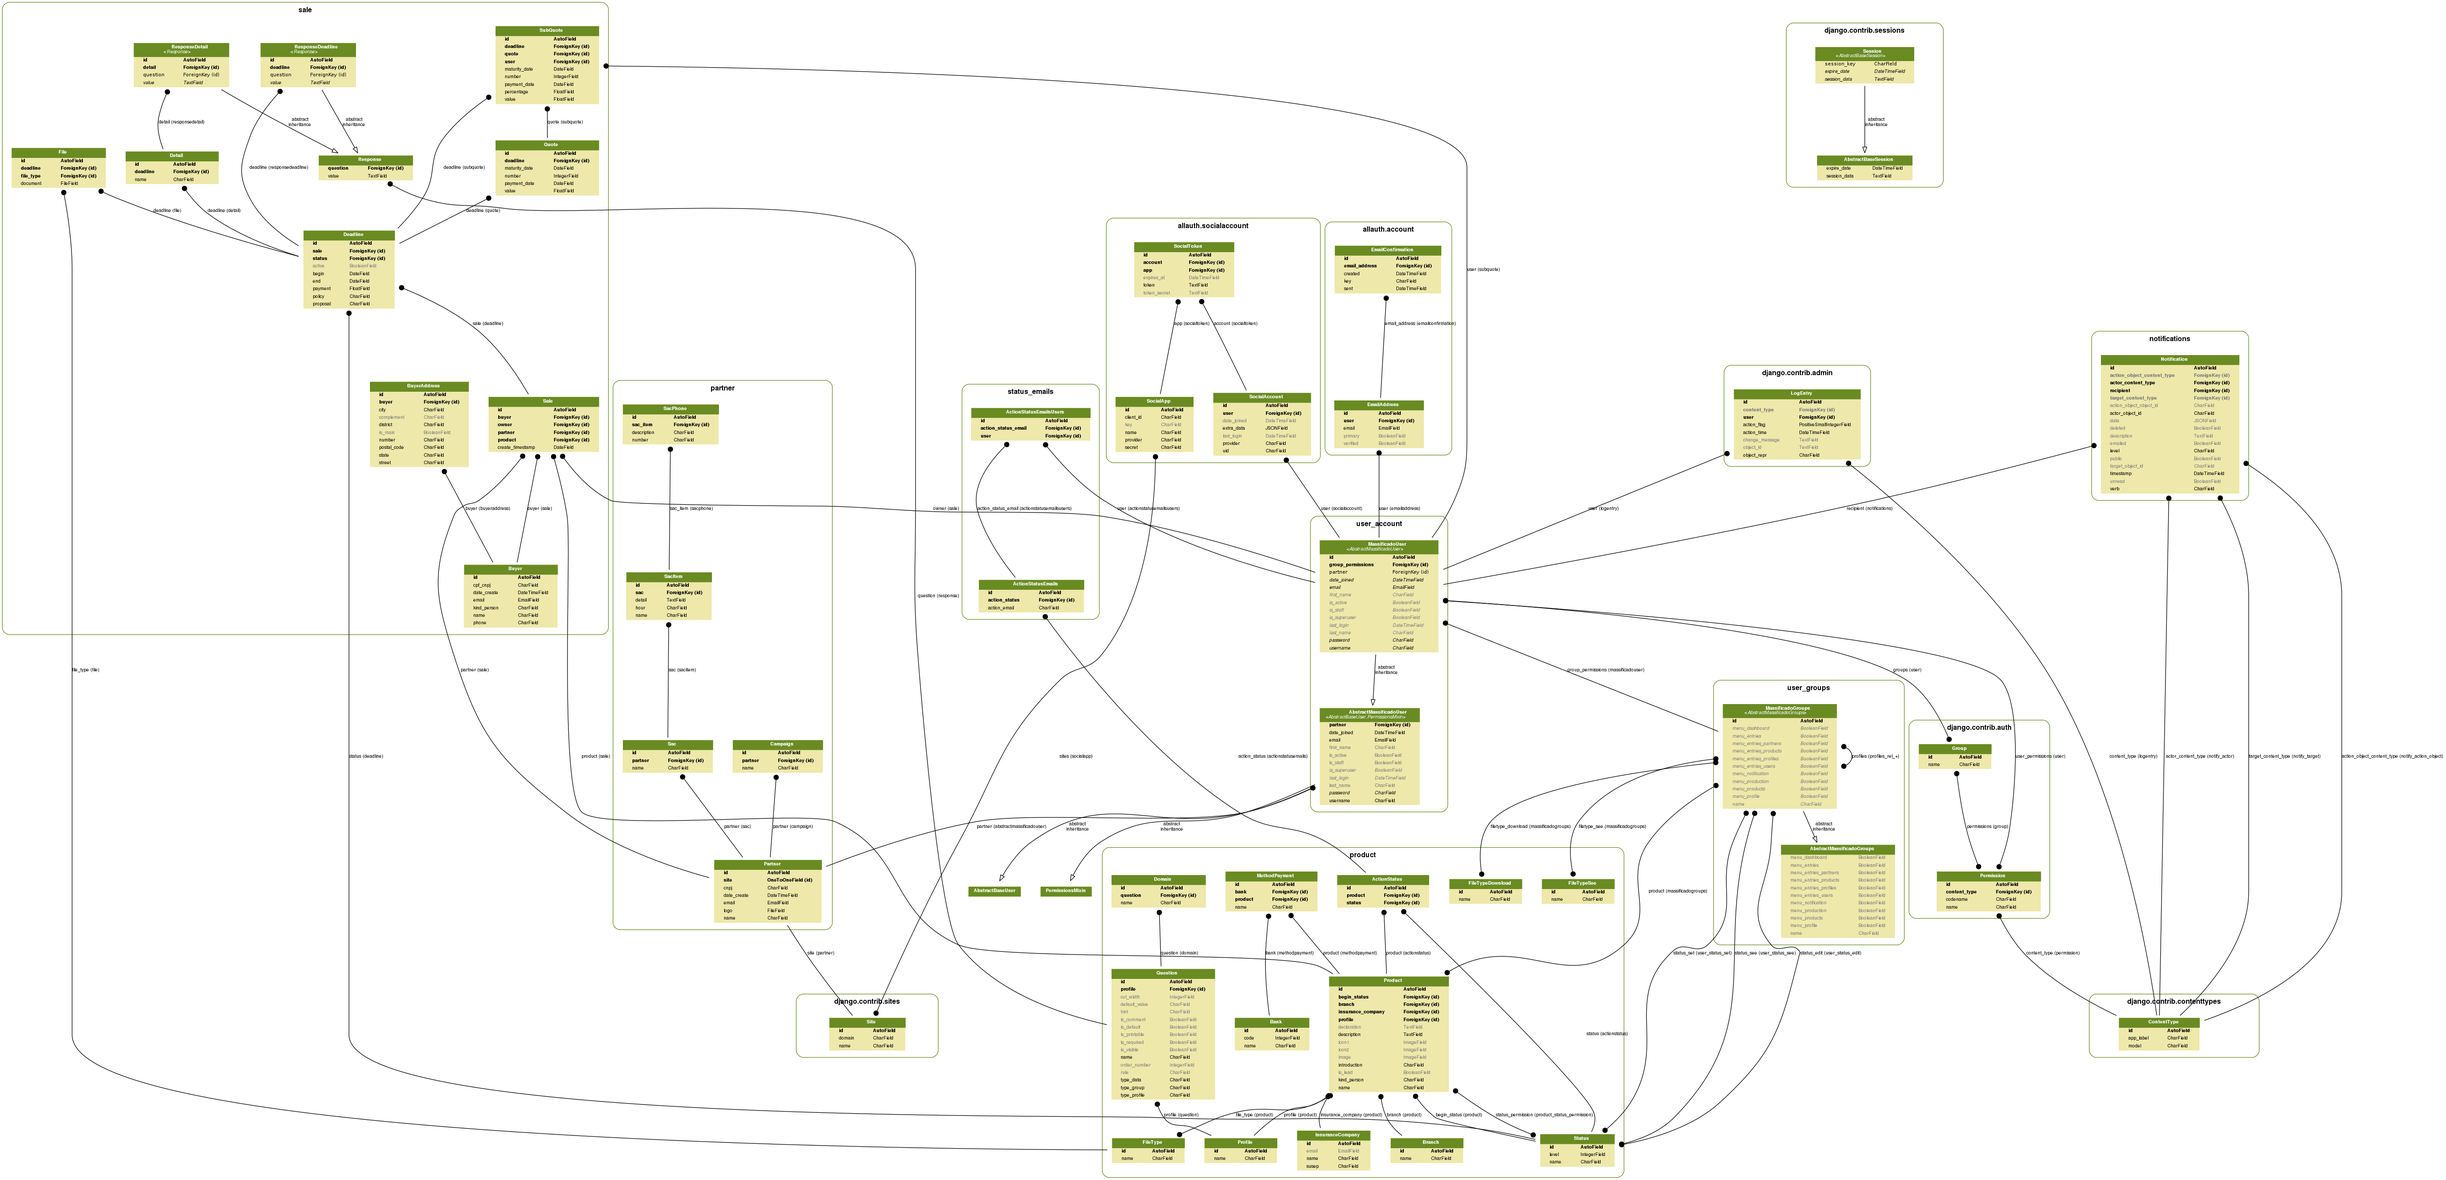
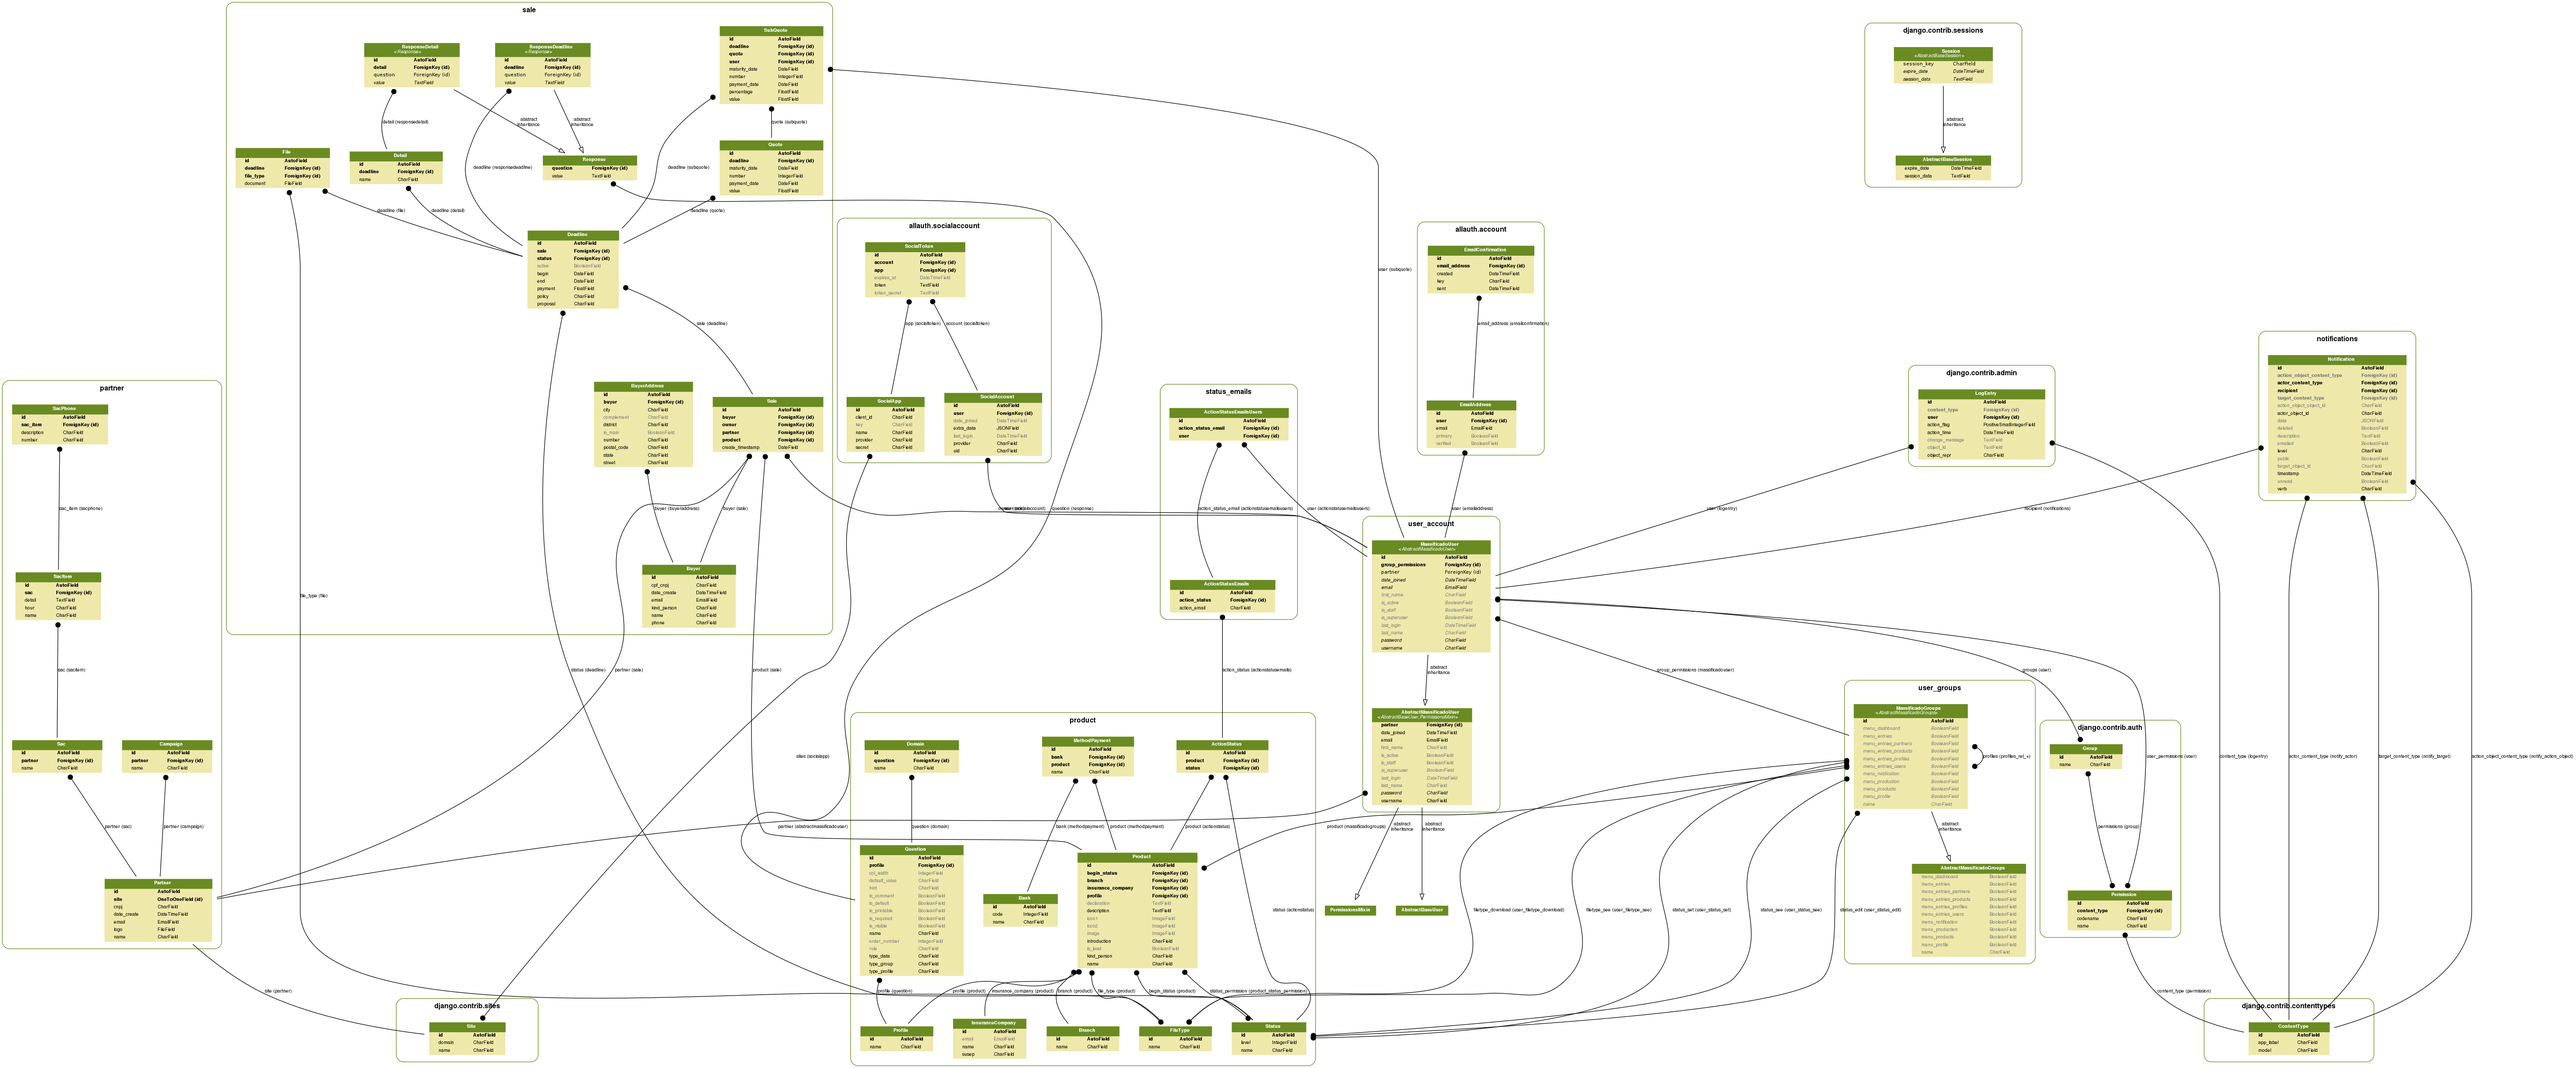
Fix create timestamp on Sale Fix deprecated template debug option on settings.py

diff --git a/massificados/settings.py b/massificados/settings.py
@@ -28,7 +28,6 @@ SECRET_KEY = 'rjy@i6@99qth)#8o!)z!hjk^mi@l7d6$#gfa_pu!91@i&2jtbf'
 
 # SECURITY WARNING: don't run with debug turned on in production!
 DEBUG = True
-TEMPLATE_DEBUG = DEBUG
 
 ALLOWED_HOSTS = [
     '*',
@@ -98,10 +97,9 @@ TEMPLATES = [
                 'django.contrib.auth.context_processors.auth',
                 'django.template.context_processors.i18n',
                 'django.contrib.messages.context_processors.messages',
-                # 'django.template.context_processors.request',
-
 
             ],
+            'debug': DEBUG,
         },
     },
 ]

diff --git a/sale/models.py b/sale/models.py
@@ -41,7 +41,7 @@ class BuyerAddress(models.Model):
 
 
 class Sale(models.Model):
-    create_timestamp = models.DateField(_('Date Created'), default=timezone.now())
+    create_timestamp = models.DateField(_('Date Created'), default=timezone.now)
     product = models.ForeignKey(Product)
     partner = models.ForeignKey(Partner)
     buyer = models.ForeignKey(Buyer)
